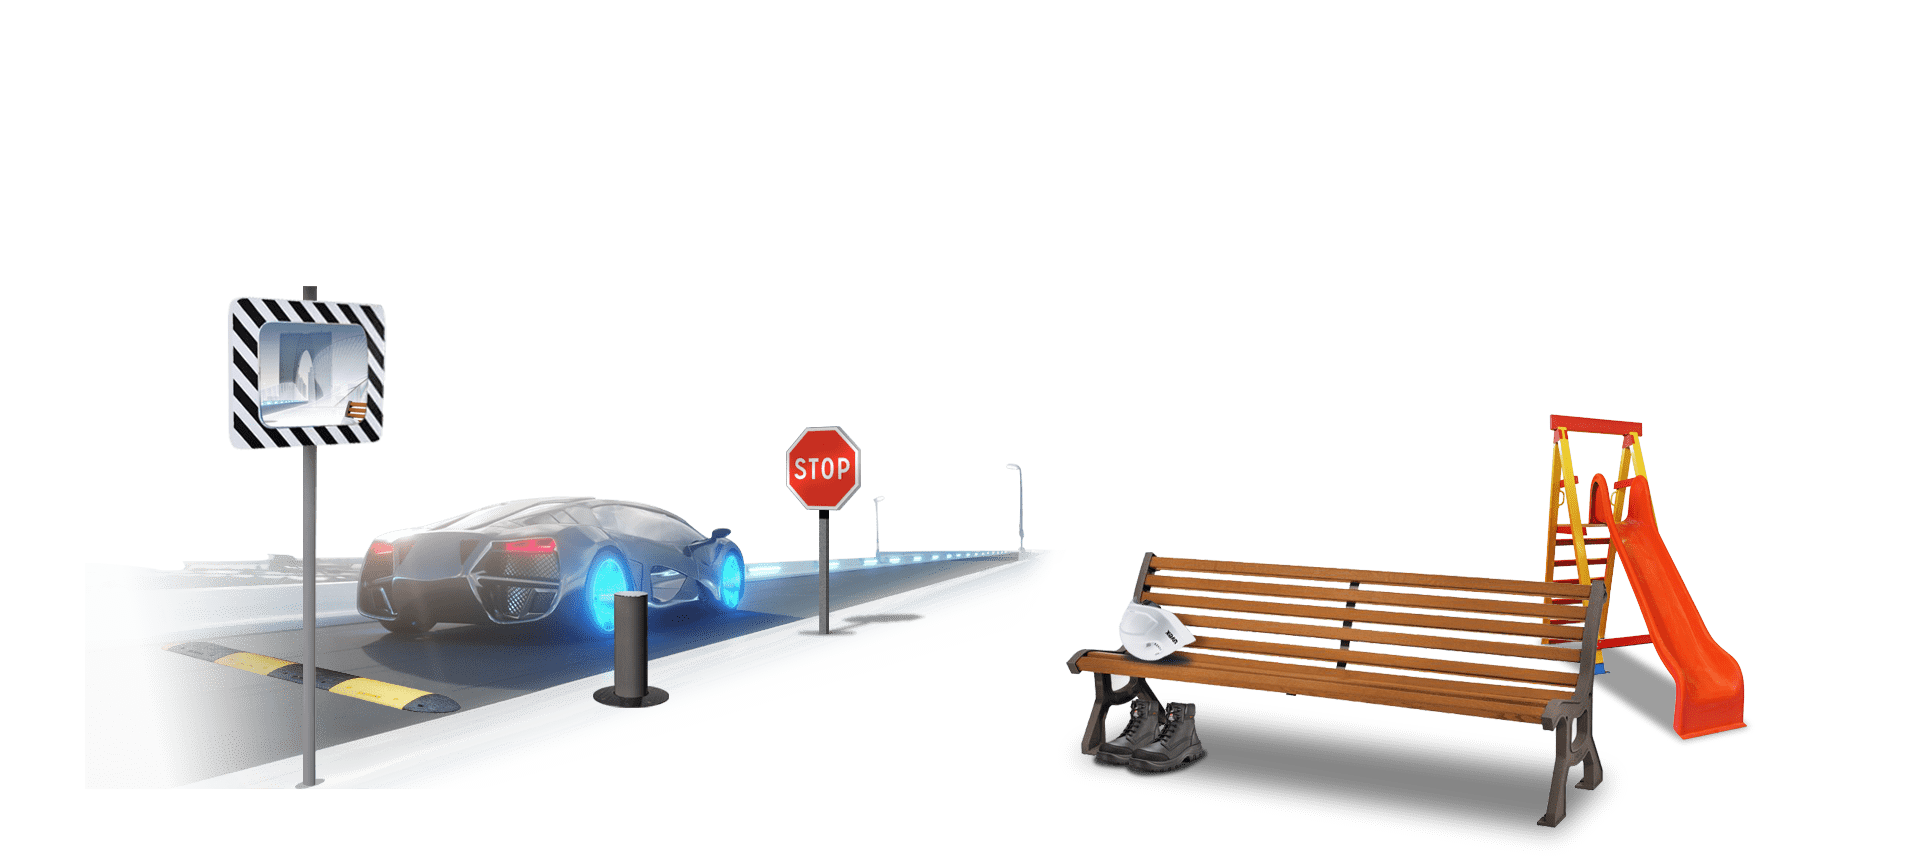
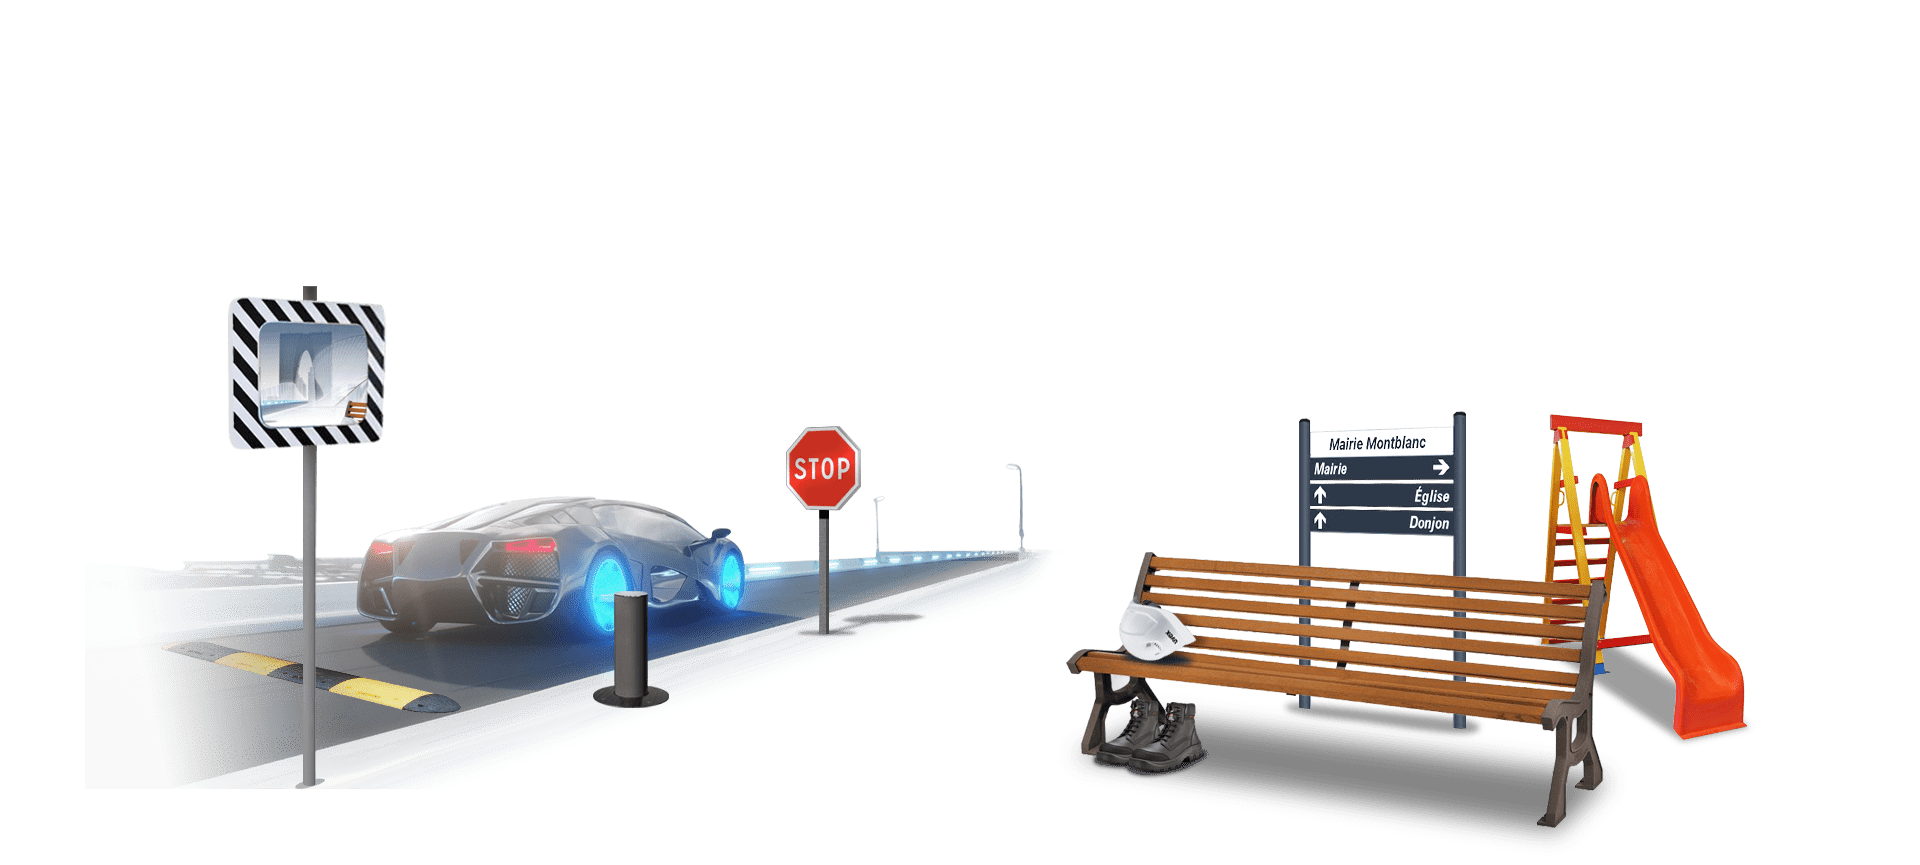
improve parallaxe, add mairie intersection for all sections

diff --git a/src/mairie/index.html b/src/mairie/index.html
@@ -14,10 +14,10 @@
   <body>
     <ats-nav></ats-nav>
     <div id="section-1">
-      <ats-parallaxe-box value="150" direction="reverse">
+      <ats-parallaxe-box ratio="0.02" direction="reverse">
         <img id="section-1-bg-far" src="./section-1-bg-far.jpeg" alt="" />
       </ats-parallaxe-box>
-      <ats-parallaxe-box value="40">
+      <ats-parallaxe-box ratio="0.005" type="rotate-y">
         <img id="section-1-bg-close" src="./section-1-bg-close.png" alt="" />
       </ats-parallaxe-box>
       <img id="section-1-personnage" src="./section-1-personnage.png" alt="" />
@@ -46,20 +46,20 @@
           </div>
           <img id="section-2-a-img" src="./section-2-a.png" alt="" />
         </div>
-        <div id="section-2-b">
+        <ats-intersection-box id="section-2-b" threshold="0.2">
           <h4 id="section-2-b-title">Vêtements HVI, Standard, Chaussures, EPI, spécifiques, Accessoires</h4>
           <img id="section-2-b-img" src="./section-2-b.png" alt="" />
-        </div>
-        <div id="section-2-c">
+        </ats-intersection-box>
+        <ats-intersection-box id="section-2-c" threshold="0.2">
           <h3 id="section-2-c-title">Promos 1 texte court</h3>
           <button class="button">&gt; Voir</button>
-        </div>
-        <div id="section-2-d">
+        </ats-intersection-box>
+        <ats-intersection-box id="section-2-d" threshold="0.3">
           <h3 id="section-2-d-title">PROMOS 2 SUR produit dont le titre EST ici</h3>
           <button class="button">&gt; Voir</button>
-        </div>
+        </ats-intersection-box>
       </div>
-      <div id="section-3">
+      <ats-intersection-box id="section-3" threshold="0.2">
         <img id="section-3-border" src="./section-3.png" alt="" />
         <h3 id="section-3-title">Équipez votre société grâce à notre équipe d’experts</h3>
         <div id="section-3-imgs">
@@ -84,20 +84,18 @@
           <span id="section-3-btn-label">contactez<br />nous au</span>
           <span id="section-3-btn-phone-number">0476543898</span>
         </button>
-      </div>
+      </ats-intersection-box>
     </ats-container>
     <ats-frame id="section-4">
-      <ats-intersection-box-group id="section-4-bg">
-        <ats-intersection-box threshold="0">
-          <img class="section-4-bg" src="./section-4-a.jpeg" alt="" />
-        </ats-intersection-box>
-        <ats-intersection-box threshold="0.5">
+      <img id="section-4-bg" src="./section-4-a.jpeg" alt="" />
+      <ats-intersection-box-group id="section-4-bgs">
+        <ats-intersection-box threshold="0.6">
           <img class="section-4-bg" src="./section-4-b.jpeg" alt="" />
         </ats-intersection-box>
-        <ats-intersection-box threshold="0.7">
+        <ats-intersection-box threshold="0.8">
           <img class="section-4-bg" src="./section-4-c.jpeg" alt="" />
         </ats-intersection-box>
-        <ats-intersection-box threshold="0.9">
+        <ats-intersection-box threshold="1">
           <img class="section-4-bg" src="./section-4-d.jpeg" alt="" />
         </ats-intersection-box>
       </ats-intersection-box-group>
@@ -112,25 +110,25 @@
     <div id="section-5-container">
       <ats-container>
         <div id="section-5">
-          <div id="section-5-a">
+          <ats-intersection-box id="section-5-a" threshold="0.2">
             <img id="section-5-a-1-img" src="./section-5-a-1.png" alt="" />
             <img id="section-5-a-2-img" src="./section-5-a-2.png" alt="" />
             <h3 id="section-5-a-title">Signalétique &amp;<br />signalisation</h3>
-          </div>
-          <div id="section-5-b">
+          </ats-intersection-box>
+          <ats-intersection-box id="section-5-b" threshold="0.2">
             <h3 id="section-5-b-title">Focus sur un produit dont le titre EST ici</h3>
-          </div>
-          <div id="section-5-c">
+          </ats-intersection-box>
+          <ats-intersection-box id="section-5-c" threshold="0.3">
             <h4 id="section-5-c-title">
               Panneaux normés, non normés, plaques de rue, banderoles, signalétique d’intérêt local
             </h4>
             <img id="section-5-c-img" src="./section-5-c.png" alt="" />
-          </div>
-          <div id="section-5-d">
+          </ats-intersection-box>
+          <ats-intersection-box id="section-5-d" threshold="0.2">
             <h3 id="section-5-d-title">PROMOS 1 TEXTE COURT</h3>
             <button class="button">&gt; Voir</button>
-          </div>
-          <div id="section-5-e">
+          </ats-intersection-box>
+          <ats-intersection-box id="section-5-e" threshold="0.2">
             <div id="section-5-e-desc">
               <div id="section-5-e-desc-icons">
                 <svg viewBox="0 0 1500 1500" width="4rem" height="4rem">
@@ -181,7 +179,7 @@
               <button class="button">Voir l'équipe &gt;</button>
             </div>
             <img id="section-5-e-img" src="./section-5-e.png" alt="" />
-          </div>
+          </ats-intersection-box>
         </div>
       </ats-container>
     </div>
@@ -214,25 +212,25 @@
     <div id="section-7-container">
       <ats-container>
         <div id="section-7">
-          <div id="section-7-a">
+          <ats-intersection-box id="section-7-a" threshold="0.2">
             <div>
               <h3 id="section-7-a-title">Mobilier urbain</h3>
             </div>
             <img id="section-7-a-img" src="./section-7-a.png" alt="" />
-          </div>
-          <div id="section-7-b">
+          </ats-intersection-box>
+          <ats-intersection-box id="section-7-b" threshold="0.2">
             <h4 id="section-7-b-title">
               Bancs, corbeilles, borne en acier, épingles, portiques, abris-bus, potelets..
             </h4>
             <img id="section-7-b-img" src="./section-7-b.png" alt="" />
-          </div>
-          <div id="section-7-c">
+          </ats-intersection-box>
+          <ats-intersection-box id="section-7-c" threshold="0.2">
             <h3 id="section-7-c-title">Promos 1 texte court</h3>
             <button class="button">&gt; Voir</button>
-          </div>
-          <div id="section-7-d">
+          </ats-intersection-box>
+          <ats-intersection-box id="section-7-d" threshold="0.3">
             <h3 id="section-7-d-title">PROMOS 7 SUR produit dont le titre EST ici</h3>
-          </div>
+          </ats-intersection-box>
         </div>
       </ats-container>
     </div>
@@ -250,18 +248,18 @@
     <div id="section-9-container">
       <ats-container>
         <div id="section-9">
-          <div id="section-9-a">
+          <ats-intersection-box id="section-9-a" threshold="0.2">
             <h3 id="section-9-a-title">Mobilier<br />de loisir</h3>
             <img id="section-9-img" src="./section-9-a.png" alt="" />
-          </div>
-          <div id="section-9-b">
+          </ats-intersection-box>
+          <ats-intersection-box id="section-9-b" threshold="0.2">
             <h3 id="section-9-b-title">Focus sur un produit dont le titre EST ici</h3>
-          </div>
-          <div id="section-9-c">
+          </ats-intersection-box>
+          <ats-intersection-box id="section-9-c" threshold="0.3">
             <h4 id="section-9-c-title">Aire de jeux, Multisport, Skate parc, parcours de santé, sols souples …</h4>
             <img id="section-9-c-img" src="./section-9-c.png" alt="" />
-          </div>
-          <div id="section-9-d"></div>
+          </ats-intersection-box>
+          <ats-intersection-box id="section-9-d" threshold="0.2"></ats-intersection-box>
         </div>
       </ats-container>
     </div>

diff --git a/src/_shared/parallaxe-box/index.ts b/src/_shared/parallaxe-box/index.ts
@@ -2,6 +2,19 @@ import {cssOfStr, tplOfStr} from "../dom-utils";
 import css from "./index.css";
 import tpl from "./index.html";
 
+type Type = "translate-x" | "rotate-y";
+
+function isType(type: any): type is Type {
+  switch (type) {
+    case "translate-x":
+    case "rotate-y":
+      return true;
+
+    default:
+      return false;
+  }
+}
+
 type Direction = "normal" | "reverse";
 
 function isDirection(direction: any): direction is Direction {
@@ -9,15 +22,19 @@ function isDirection(direction: any): direction is Direction {
 }
 
 export class ATSParallaxeBox extends HTMLElement {
-  private value = 1;
+  private ratio = 1;
+  private type: Type = "translate-x";
   private direction: Direction = "normal";
 
   public constructor() {
     super();
     this.attachShadow({mode: "open"}).append(cssOfStr(css), tplOfStr(tpl));
 
-    const value = this.getAttribute("value");
-    if (value) this.value = parseFloat(value);
+    const ratio = this.getAttribute("ratio");
+    if (ratio) this.ratio = parseFloat(ratio);
+
+    const type = this.getAttribute("type");
+    if (isType(type)) this.type = type;
 
     const direction = this.getAttribute("direction");
     if (isDirection(direction)) this.direction = direction;
@@ -25,8 +42,21 @@ export class ATSParallaxeBox extends HTMLElement {
 
   private handleMouseOver = (evt: MouseEvent) => {
     const direction = this.direction === "normal" ? 1 : -1;
-    const deltaX = (direction * (this.clientWidth * 0.5 - evt.clientX)) / this.value;
-    this.style.transform = `scale(1.05) translateX(${deltaX}px)`;
+    const deltaX = direction * (this.clientWidth * 0.5 - evt.clientX) * this.ratio;
+    this.style.transform = (() => {
+      const scale = "scale(1.05)";
+
+      switch (this.type) {
+        case "translate-x":
+          return `${scale} translateX(${deltaX}px)`;
+
+        case "rotate-y":
+          return `${scale} perspective(120rem) rotateY(${deltaX}deg)`;
+
+        default:
+          return scale;
+      }
+    })();
   };
 
   protected connectedCallback() {

diff --git a/src/_shared/anchor-header/index.css b/src/_shared/anchor-header/index.css
@@ -38,11 +38,11 @@
 
 @keyframes floating {
   from {
-    opacity: 0.6;
-    transform: translateY(0);
+    opacity: 0.25;
+    transform: scale(1);
   }
   to {
     opacity: 1;
-    transform: translateY(-0.5rem);
+    transform: scale(1.05);
   }
 }

diff --git a/src/mairie/global.css b/src/mairie/global.css
@@ -310,9 +310,15 @@ body {
   position: relative;
 }
 
+#section-4-bgs {
+  grid-column: 1;
+  grid-row: 1;
+}
+
 #section-4-bg {
   grid-column: 1;
   grid-row: 1;
+  width: 100%;
 }
 
 .section-4-bg {

diff --git a/src/_shared/parallaxe-box/index.css b/src/_shared/parallaxe-box/index.css
@@ -1,5 +1,5 @@
 :host {
   display: block;
   transform: scale(1.05);
-  transform-origin: top center;
+  transform-origin: center center;
 }

diff --git a/src/_shared/intersection-box/index.css b/src/_shared/intersection-box/index.css
@@ -1,5 +1,5 @@
 :host {
-  display: flex;
+  display: block;
   grid-column: 1 / 1;
   grid-row: 1 / 1;
   opacity: 0;
